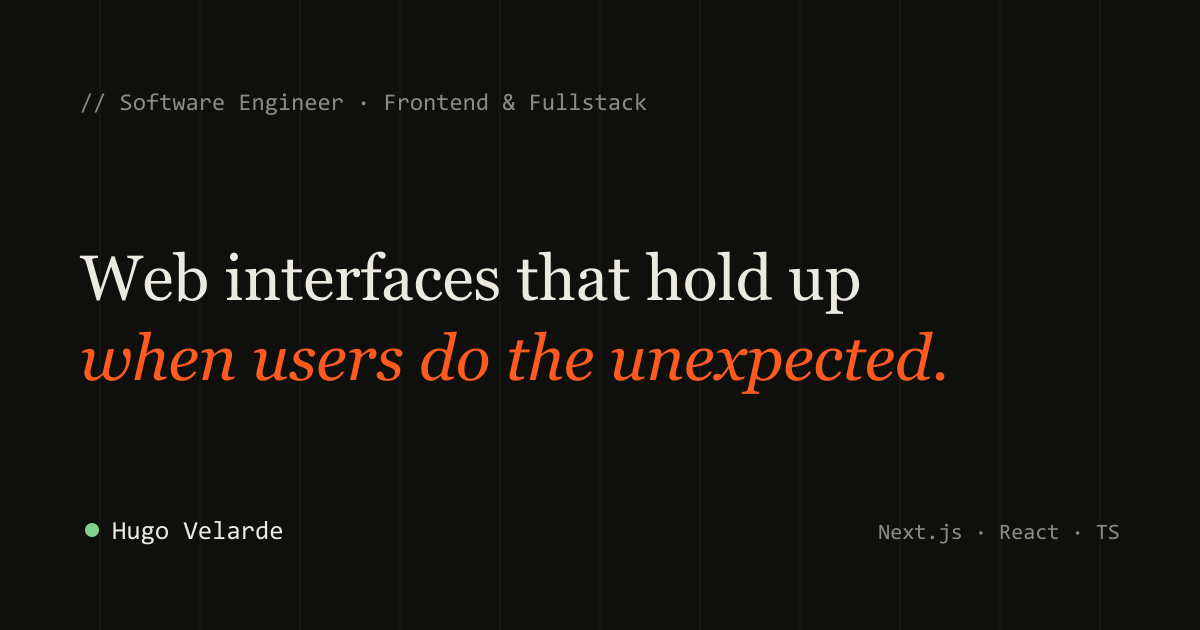
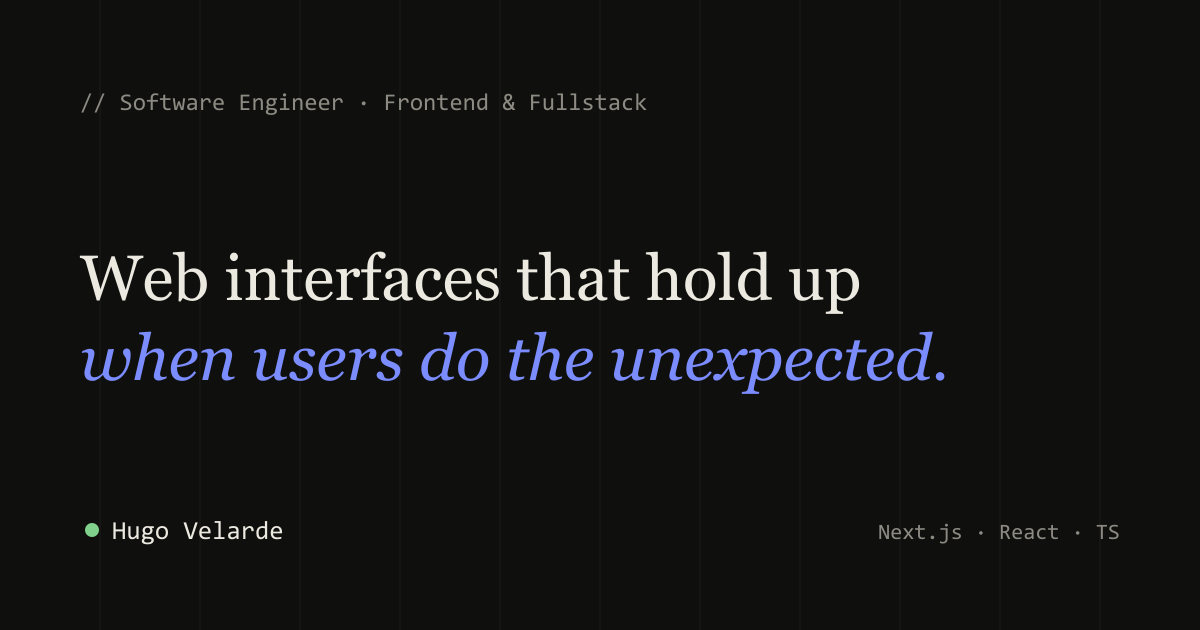
feat: cobalt accent, hide contact form, simplify footer
- Replace the orange accent (#FF5A1F/#E0480F) with cobalt (#7B8CFF dark /
  #2A3FD1 light) to move away from a generic tech look; update favicon and
  regenerate OG images. Contrast stays WCAG AA (5.9-7.7:1).
- Hide the contact form behind a showForm flag; the section keeps email,
  LinkedIn, GitHub and CV links.
- Footer: "Hecho a mano con Astro" -> "Hecho con Astro" (en: "Built with Astro").

Changed region(s): [[0.0617, 0.5127, 0.8017, 0.6333]]

diff --git a/src/styles/global.css b/src/styles/global.css
@@ -11,7 +11,7 @@
   --bone: #ece9e1;
   --muted: #8c8a82;
   --sub: #b9b6ad;
-  --signal: #ff5a1f;
+  --signal: #7b8cff;
   --ok: #7fd18b;
   --ins-bg: #14301a;
   --ins-fg: #8fe39b;
@@ -27,7 +27,7 @@
   --bone: #151612;
   --muted: #6a685f;
   --sub: #4b4a44;
-  --signal: #e0480f;
+  --signal: #2a3fd1;
   --ok: #2e8b45;
   --ins-bg: #d8f0dc;
   --ins-fg: #14632a;

diff --git a/src/i18n/en.ts b/src/i18n/en.ts
@@ -154,6 +154,6 @@ export const en: Record<UiKey, string> = {
   'case.next': 'Next case →',
   'case.stack': 'Stack',
 
-  'footer.made': 'Hand-built with Astro · Durango, MX',
+  'footer.made': 'Built with Astro · Durango, MX',
   'footer.updated': 'Updated',
 };

diff --git a/src/i18n/es.ts b/src/i18n/es.ts
@@ -152,7 +152,7 @@ export const es = {
   'case.next': 'Siguiente caso →',
   'case.stack': 'Stack',
 
-  'footer.made': 'Hecho a mano con Astro · Durango, MX',
+  'footer.made': 'Hecho con Astro · Durango, MX',
   'footer.updated': 'Actualizado',
 } as const;
 
